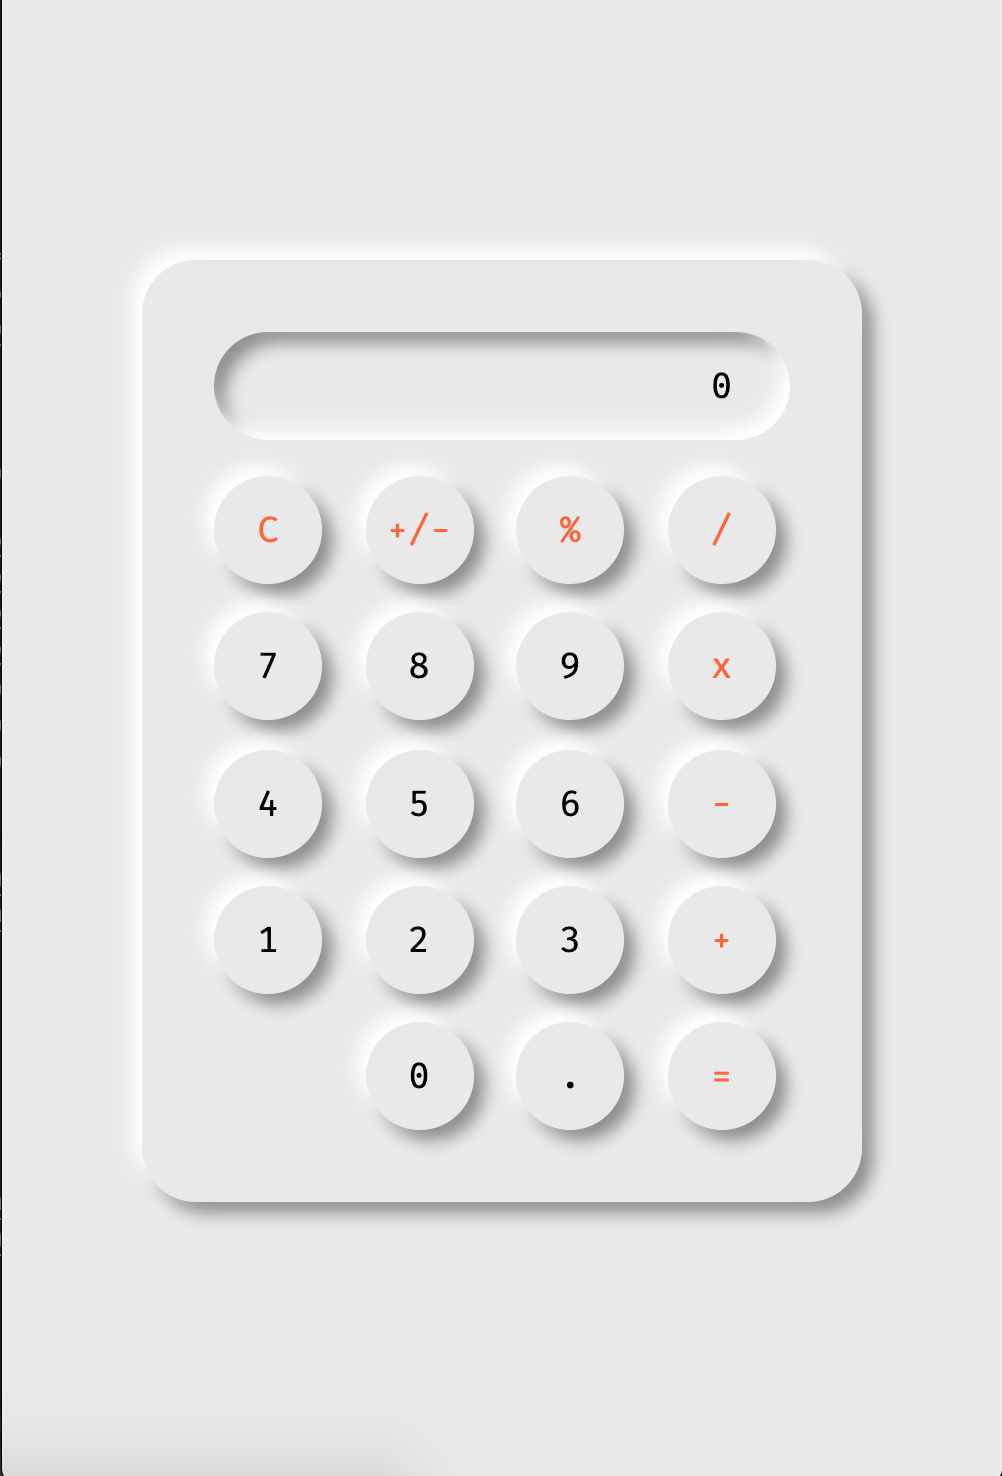
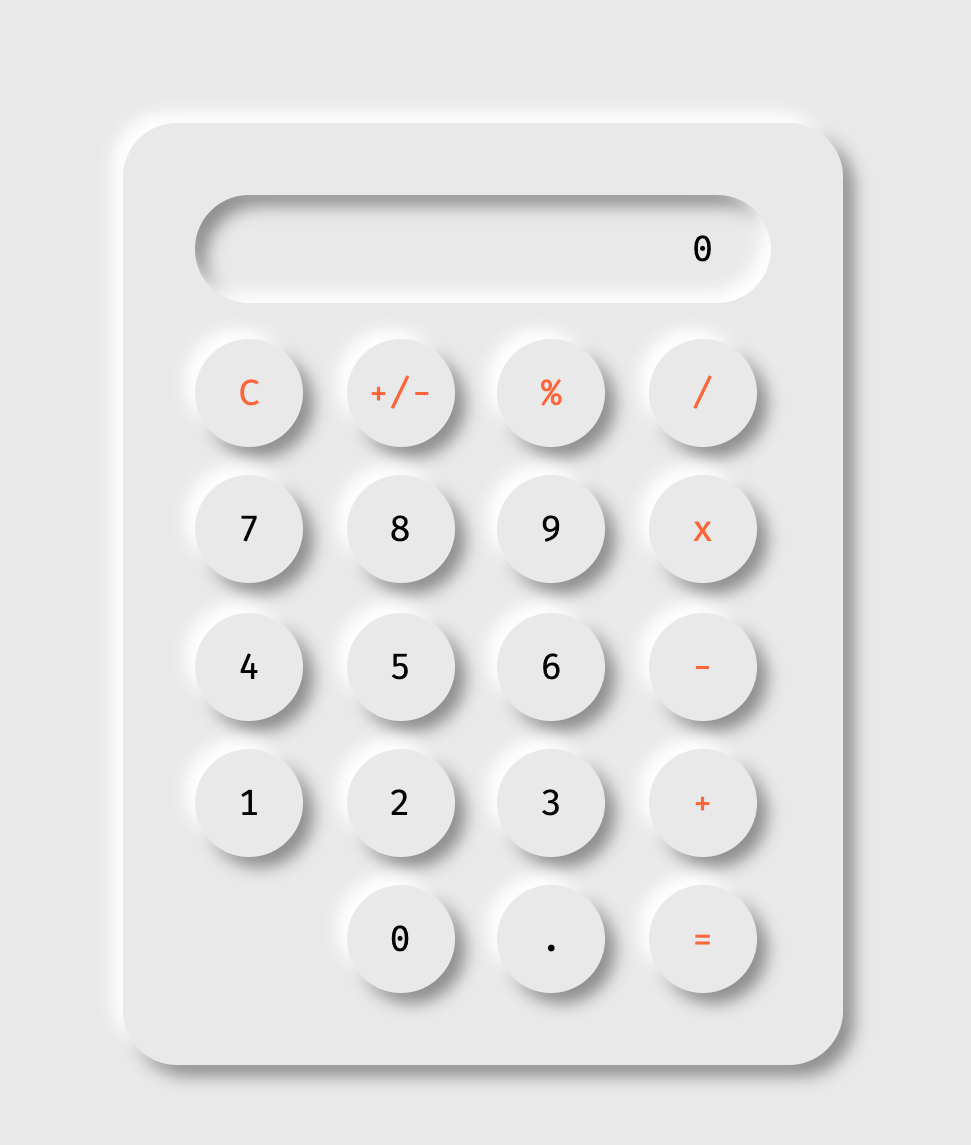
final

diff --git a/README.md b/README.md
@@ -1,6 +1,7 @@
 # Neumorphic-Calculator
-Neumorphic Calculator with html, css and javascript
-<img src="https://github.com/priya-jain-dev/Neumorphic-Calculator/blob/master/images/calculator.png" width="300" height="500">
+> Neumorphic Calculator with html, css and javascript
+
+<img src="https://github.com/priya-jain-dev/Neumorphic-Calculator/blob/master/images/calculator.png" width="400" height="700">
 <table class="has-fixed-layout"><thead><tr><th>Quality</th><th>Material Design</th><th>Neomorphism</th></tr></thead><tbody><tr><td><strong>Shadows</strong></td><td>Elements have&nbsp;a&nbsp;single or multiple dark shadows around them.&nbsp;</td><td>Elements have two shadows: one&nbsp;light and one dark.</td></tr><tr><td><strong>Background colors</strong></td><td>An element’s background color can be different than the background color of the parent element.</td><td>Background colors&nbsp;must be the same&nbsp;(or&nbsp;very similar) as the&nbsp;background&nbsp;color of the parent element.</td></tr><tr><td><strong>Edges</strong></td><td>Elements can be rounded or squared.</td><td>Rounded edges are a defining quality.</td></tr><tr><td><strong>Borders</strong></td><td>There are no hard rules on borders. Using them can help prevent elements that look like they are floating off the screen.</td><td>Elements can have an optional subtle border to improve contrast and make the edges a bit sharper</td></tr></tbody></table>
 
 ### Neumorphic box shadows
